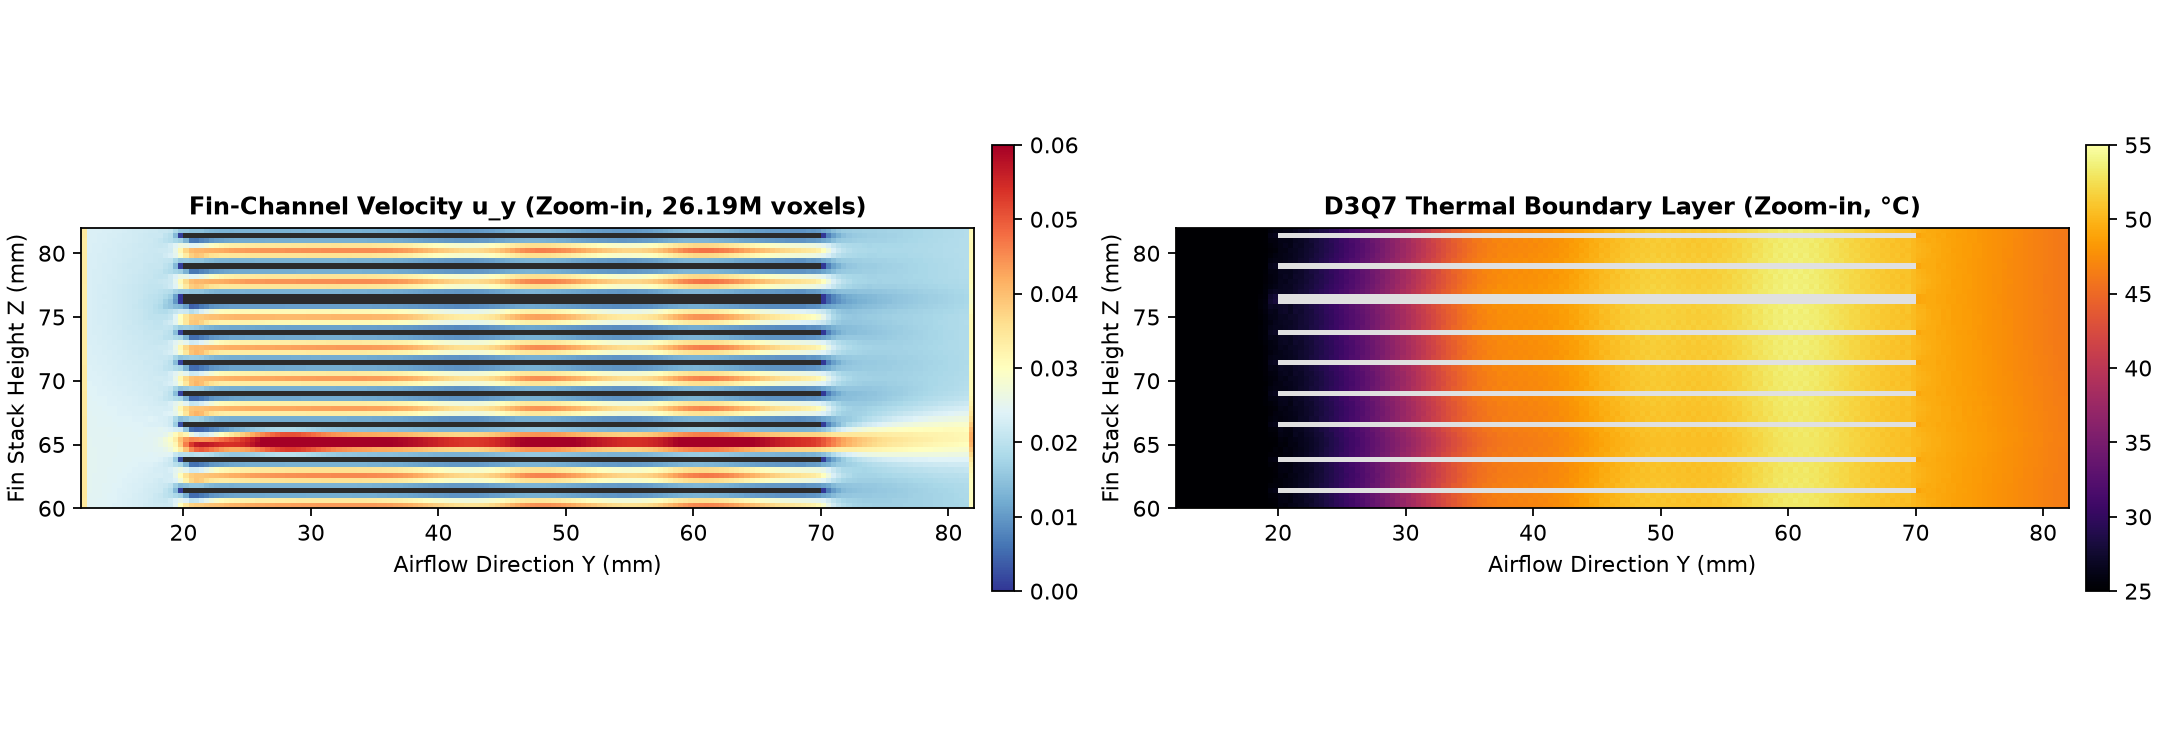
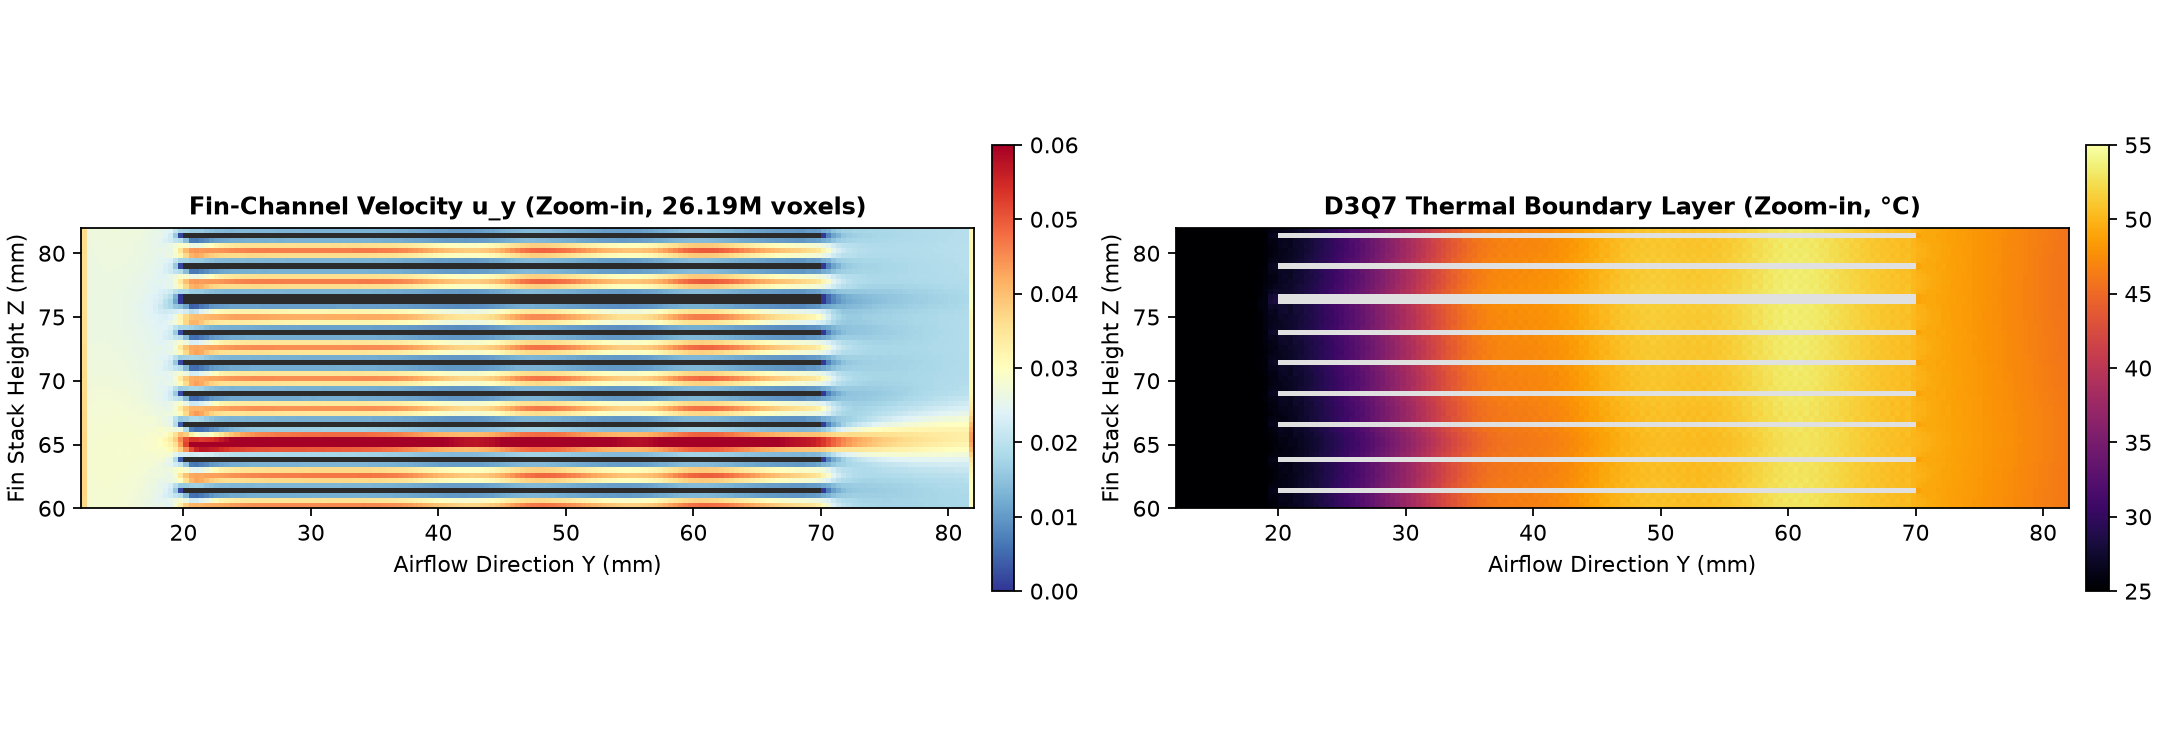
docs: add symmetric dual-bank heat-pipe 3-view visualizations to README

diff --git a/examples/finned_heatsink.py b/examples/finned_heatsink.py
@@ -59,12 +59,13 @@ def build_heatsink(pitch_mm=0.4, pad_y=20.0):
 
     x_rise = tower_w * 0.34
     span_y = tower_d * 0.62
-    for i in range(pipe_n):
-        dx = x_rise + (1 if i % 2 == 0 else -1) * 2.0
-        yr = -span_y / 2 + i * (span_y / (pipe_n - 1))
-        pipe = (((X - dx) ** 2 + (Y - yr) ** 2) <= (pipe_d / 2) ** 2) & (Z >= base_h) & (Z <= total_h)
-        solid |= pipe
-        thermal_bc[pipe] = 2
+    for side in (-1.0, 1.0):
+        for i in range(pipe_n):
+            dx = side * x_rise + (1 if i % 2 == 0 else -1) * 2.0
+            yr = -span_y / 2 + i * (span_y / (pipe_n - 1))
+            pipe = (((X - dx) ** 2 + (Y - yr) ** 2) <= (pipe_d / 2) ** 2) & (Z >= base_h) & (Z <= total_h)
+            solid |= pipe
+            thermal_bc[pipe] = 2
 
     solid[0, :, :] = True
     solid[-1, :, :] = True
@@ -93,33 +94,29 @@ def main():
     mlups = (solid.size * steps) / dt / 1e6
     print(f"Grid {nx}x{ny}x{nz} ({solid.size/1e6:.2f}M) | {steps} steps in {dt:.2f}s ({mlups:.1f} MLUPS)")
 
-    # 切在紧邻热管外侧的纯翅片通道区 (X = +33 mm)，完全避开热管遮挡且导热充分
+    out_dir = os.path.join(ROOT, "assets")
+    os.makedirs(out_dir, exist_ok=True)
+
+    # 1. 纯翅片通道局部放大（YZ 纵截面, X=+33mm）
     x_fin = int(round((nx * 0.5) + 33.0 / pitch_mm))
     uy_yz, _ = sim.x_slice(x_fin)
     temp_yz = sim.x_temp_slice(x_fin)
-
-    # 局部放大中间 8 片翅片通道：Y ∈ [12, 82] mm，Z ∈ [60, 82] mm
     y0, y1 = int(12.0 / pitch_mm), int(82.0 / pitch_mm)
     z0, z1 = int(60.0 / pitch_mm), int(82.0 / pitch_mm)
 
-    out_dir = os.path.join(ROOT, "assets")
-    os.makedirs(out_dir, exist_ok=True)
-    out_png = os.path.join(out_dir, "heatsink_thermal_demo.png")
-
     fig, axes = plt.subplots(1, 2, figsize=(13.5, 4.6), dpi=180, constrained_layout=True)
     solid_zoom = solid[z0:z1, y0:y1, x_fin]
-    # 对流体速度做 1x2 邻域平均，消除低黏度 BGK 的 2-dx 声波棋盘格纹路
     uy_raw = uy_yz[z0:z1, y0:y1].copy()
     uy_vis = uy_raw.copy()
     uy_vis[:, 1:-1] = 0.25 * uy_raw[:, :-2] + 0.5 * uy_raw[:, 1:-1] + 0.25 * uy_raw[:, 2:]
     u_plot = np.ma.masked_where(solid_zoom, uy_vis)
     t_plot = np.ma.masked_where(solid_zoom, temp_yz[z0:z1, y0:y1])
-    extent = [y0 * pitch_mm, y1 * pitch_mm, z0 * pitch_mm, z1 * pitch_mm]
+    extent_yz = [y0 * pitch_mm, y1 * pitch_mm, z0 * pitch_mm, z1 * pitch_mm]
 
     cmap_u = plt.get_cmap("RdYlBu_r").copy()
     cmap_u.set_bad(color="#2b2b2b")
     im0 = axes[0].imshow(u_plot, origin="lower", cmap=cmap_u, vmin=0.0, vmax=0.06,
-                         aspect="equal", extent=extent)
+                         aspect="equal", extent=extent_yz)
     axes[0].set_title(f"Fin-Channel Velocity u_y (Zoom-in, {solid.size/1e6:.2f}M voxels)", fontsize=11, fontweight="bold")
     axes[0].set_xlabel("Airflow Direction Y (mm)")
     axes[0].set_ylabel("Fin Stack Height Z (mm)")
@@ -128,15 +125,68 @@ def main():
     cmap_t = plt.get_cmap("inferno").copy()
     cmap_t.set_bad(color="#e0e0e0")
     im1 = axes[1].imshow(t_plot, origin="lower", cmap=cmap_t, vmin=t_in, vmax=55.0,
-                         aspect="equal", extent=extent)
+                         aspect="equal", extent=extent_yz)
     axes[1].set_title("D3Q7 Thermal Boundary Layer (Zoom-in, °C)", fontsize=11, fontweight="bold")
     axes[1].set_xlabel("Airflow Direction Y (mm)")
     axes[1].set_ylabel("Fin Stack Height Z (mm)")
     fig.colorbar(im1, ax=axes[1], pad=0.02, fraction=0.025)
 
-    fig.savefig(out_png, dpi=160)
+    fig.savefig(os.path.join(out_dir, "heatsink_thermal_demo.png"), dpi=160)
     plt.close(fig)
-    print(f"Saved: {out_png}")
+
+    # 2. 热管绕流与热尾迹（XY 水平中截面, Z=H/2）
+    mid_z = nz // 2
+    uy_xy, _ = sim.z_slice(mid_z)
+    temp_xy = sim.z_temp_slice(mid_z)
+    solid_xy = solid[mid_z, :-1, :].T
+    uy_xy_vis = uy_xy[:-1, :].T.copy()
+    uy_xy_vis[:, 1:-1] = 0.25 * uy_xy_vis[:, :-2] + 0.5 * uy_xy_vis[:, 1:-1] + 0.25 * uy_xy_vis[:, 2:]
+    extent_xy = [0.0, (ny - 1) * pitch_mm, 0.0, nx * pitch_mm]
+
+    fig, axes = plt.subplots(1, 2, figsize=(12.0, 5.6), dpi=160, constrained_layout=True)
+    im0 = axes[0].imshow(np.ma.masked_where(solid_xy, uy_xy_vis), origin="lower", cmap=cmap_u,
+                         vmin=-0.015, vmax=0.06, aspect="equal", extent=extent_xy)
+    axes[0].set_title("Staggered Heat-Pipe Wake u_y (XY Plane)", fontsize=11, fontweight="bold")
+    axes[0].set_xlabel("Airflow Y (mm)")
+    axes[0].set_ylabel("Width X (mm)")
+    fig.colorbar(im0, ax=axes[0], pad=0.02, fraction=0.045)
+
+    im1 = axes[1].imshow(np.ma.masked_where(solid_xy, temp_xy[:-1, :].T), origin="lower", cmap=cmap_t,
+                         vmin=t_in, vmax=t_hot, aspect="equal", extent=extent_xy)
+    axes[1].set_title("Heat-Pipe Thermal Wake (°C, XY Plane)", fontsize=11, fontweight="bold")
+    axes[1].set_xlabel("Airflow Y (mm)")
+    axes[1].set_ylabel("Width X (mm)")
+    fig.colorbar(im1, ax=axes[1], pad=0.02, fraction=0.045)
+
+    fig.savefig(os.path.join(out_dir, "heatsink_pipe_wake.png"), dpi=160)
+    plt.close(fig)
+
+    # 3. 迎风正面全视图（XZ 截面，Y 处于散热器后半段 Y=55mm）
+    y_front = int(55.0 / pitch_mm)
+    _, uy_xz, _ = sim.y_plane(y_front)
+    t_xz = np.empty((nz, nx), dtype=np.float32)
+    sim._lib.lbm_get_y_temp_plane(sim._h, y_front, t_xz.ctypes.data_as(sim._lib.lbm_get_y_temp_plane.argtypes[2]))
+    solid_xz = solid[:, y_front, :]
+    extent_xz = [0.0, nx * pitch_mm, 0.0, nz * pitch_mm]
+
+    fig, axes = plt.subplots(1, 2, figsize=(11.5, 6.2), dpi=160, constrained_layout=True)
+    im0 = axes[0].imshow(np.ma.masked_where(solid_xz, uy_xz), origin="lower", cmap=cmap_u,
+                         vmin=0.0, vmax=0.06, aspect="equal", extent=extent_xz)
+    axes[0].set_title("Front Cross-Section Velocity u_y (XZ Plane)", fontsize=11, fontweight="bold")
+    axes[0].set_xlabel("Width X (mm)")
+    axes[0].set_ylabel("Height Z (mm)")
+    fig.colorbar(im0, ax=axes[0], pad=0.02, fraction=0.05)
+
+    im1 = axes[1].imshow(np.ma.masked_where(solid_xz, t_xz), origin="lower", cmap=cmap_t,
+                         vmin=t_in, vmax=t_hot, aspect="equal", extent=extent_xz)
+    axes[1].set_title("Front Cross-Section Temperature (°C, XZ Plane)", fontsize=11, fontweight="bold")
+    axes[1].set_xlabel("Width X (mm)")
+    axes[1].set_ylabel("Height Z (mm)")
+    fig.colorbar(im1, ax=axes[1], pad=0.02, fraction=0.05)
+
+    fig.savefig(os.path.join(out_dir, "heatsink_front_xz.png"), dpi=160)
+    plt.close(fig)
+    print(f"Saved 3 views in {out_dir}")
 
 
 if __name__ == "__main__":

diff --git a/README.md b/README.md
@@ -2,8 +2,14 @@
 
 Windows native CUDA C++ D3Q19/D3Q7 Lattice Boltzmann solver (BGK + Smagorinsky LES + Conjugate Heat Transfer), compiled directly with `nvcc` + MSVC into a standalone DLL (`lbm_cuda.dll`) with zero Docker / WSL / Linux dependency.
 
-![3D Finned Heat Sink Flow and Thermal Simulation](assets/heatsink_thermal_demo.png)
-*26.19M-voxel 3D finned heat sink with staggered heat pipes: D3Q19 velocity field (top) & D3Q7 conjugate heat transfer temperature wake (bottom), simulated on a single RTX 5070 Ti Laptop GPU.*
+![Fin-Channel Flow and Thermal Boundary Layer](assets/heatsink_thermal_demo.png)
+*1. Pure fin-channel zoom-in (YZ plane): parabolic channel flow (left) & D3Q7 thermal boundary layer growth (right).*
+
+![Staggered Heat-Pipe Wake](assets/heatsink_pipe_wake.png)
+*2. Staggered heat-pipe wake (XY plane): velocity deficit & thermal wake downstream of 6 isothermal heat pipes.*
+
+![Front Cross-Section](assets/heatsink_front_xz.png)
+*3. Front cross-section (XZ plane): 58 stacked fins, heated baseplate, and heat-pipe thermal plume (`26.19M voxels, 1324 MLUPS on RTX 5070 Ti`).*
 
 ## Features
 
